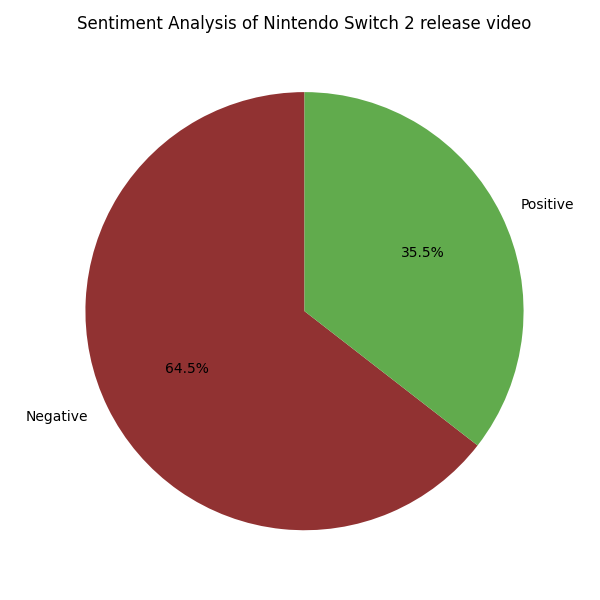
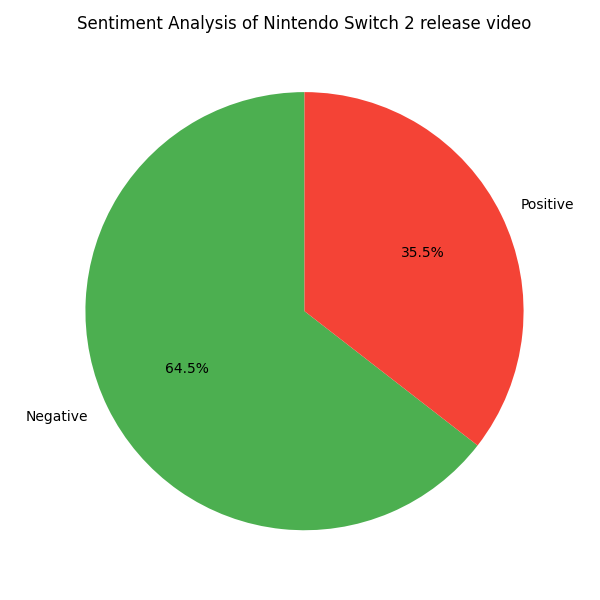
Final code

diff --git a/code/scrape_comments.py b/code/scrape_comments.py
@@ -94,7 +94,7 @@ print(percentages)
 # Plot results
 
 plt.figure(figsize=(6, 6))
-colors = ['#4CAF50', '#F44336']  # Green, Red
+colors = ["#D37058", "#41955A"]  
 percentages.plot.pie(
     autopct='%1.1f%%',
     startangle=90,
